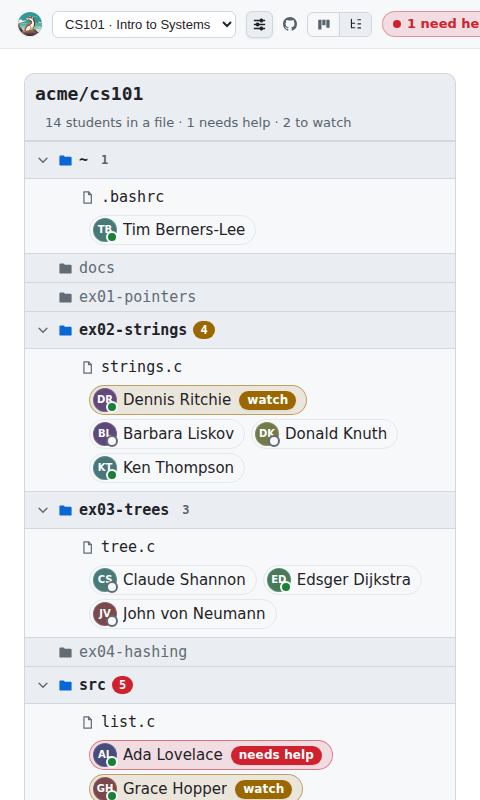
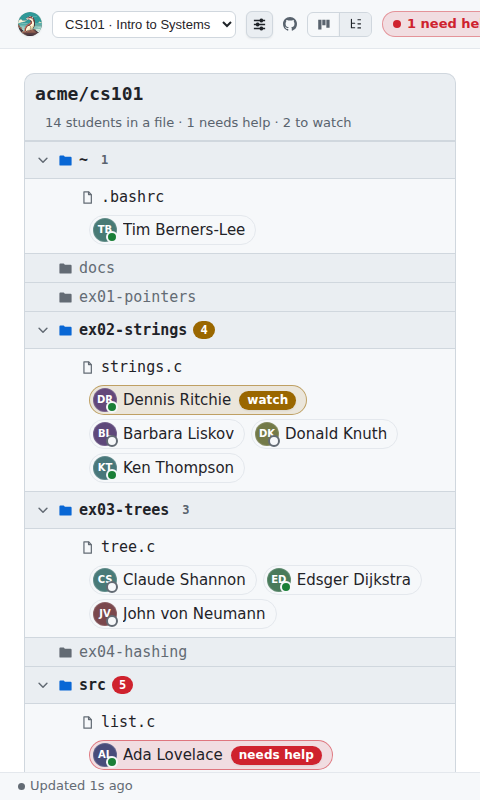
Move the freshness text to a status bar at the bottom
'Updated Ns ago' and the first-visit hint are facts about the page, not
controls, and they crowded the top bar. They now sit in a slim bar under the
board, where the text no longer has to shrink away on narrow windows.

Claude-Session: https://claude.ai/code/session_011qtRC3MwSDrHkoBdiSnsy7

Changed region(s): [[0.0312, 0.9688, 0.6562, 1.0]]

diff --git a/crates/server/static/index.html b/crates/server/static/index.html
@@ -112,7 +112,7 @@
     #more-menu hr { border: 0; border-top: 1px solid var(--border-subtle); margin: 4px 2px; }
     /* On a narrower window the bar gives up words before it gives up controls:
      * the actions keep their icons (and their names, for screen readers), then
-     * the wordmark and repo name go, then the freshness text. */
+     * the wordmark and repo name go. */
     @media (max-width: 1240px) {
       header .lbl {
         position: absolute; width: 1px; height: 1px; margin: -1px; overflow: hidden;
@@ -123,10 +123,6 @@
     }
     @media (max-width: 960px) {
       header h1, .course-repo span { display: none; }
-    }
-    @media (max-width: 800px) {
-      #freshness { font-size: 0; gap: 0; }
-      #freshness .fdot { width: 9px; height: 9px; }
     }
     /* Only the course-settings gear stays beside the switcher. */
     #course-settings { padding: 5px; }
@@ -170,6 +166,13 @@
     }
 
     #content { flex: 1 1 auto; display: flex; min-height: 0; }
+    /* Quiet facts about the page itself — how fresh it is, what to click —
+     * live under the work, not among the controls above it. */
+    #statusbar {
+      flex: 0 0 auto; display: flex; align-items: center; gap: 16px; min-height: 28px;
+      padding: 3px 18px; border-top: 1px solid var(--border-subtle); background: var(--surface);
+    }
+    #statusbar .spacer { margin-left: auto; }
 
     /* ---- Overview board (main pane) ---- */
     #board {
@@ -573,8 +576,6 @@
     </div>
     <span id="alert" aria-live="assertive"></span>
     <span class="spacer"></span>
-    <span id="freshness" class="freshness">Connecting…</span>
-    <span id="hint" class="hint">Click a student to open their terminal</span>
     <a class="nav" href="/analytics" title="Time-on-task analytics" aria-label="Analytics">
       <svg class="ico" viewBox="0 0 16 16" fill="currentColor" aria-hidden="true"><path d="M2 13.5h12v1.3H1V2h1.3v11.5zM5 11V7h1.6v4H5zm3-6h1.6v6H8V5zm3 2.5h1.6V11H11V7.5z"/></svg>
       <span class="lbl">Analytics</span>
@@ -614,6 +615,11 @@
     <div id="divider" role="separator" aria-orientation="vertical" aria-label="Resize terminal panel"></div>
     <div id="dock"></div>
   </div>
+  <footer id="statusbar">
+    <span id="freshness" class="freshness">Connecting…</span>
+    <span class="spacer"></span>
+    <span id="hint" class="hint">Click a student to open their terminal</span>
+  </footer>
   <div id="toasts" role="status" aria-live="polite"></div>
 
   <script>
@@ -1261,14 +1267,12 @@
       if (lastError) {
         el.className = 'freshness failed';
         el.innerHTML = '<span class="fdot"></span>Update failed — retrying';
-        el.title = el.textContent; // the words go when the bar is narrow; the tooltip keeps them
         return;
       }
       if (!lastUpdated) { el.className = 'freshness'; el.textContent = 'Connecting…'; return; }
       const s = Math.round((Date.now() - lastUpdated) / 1000);
       el.className = 'freshness' + (s > 15 ? ' stale' : '');
       el.innerHTML = `<span class="fdot"></span>Updated ${s}s ago`;
-      el.title = el.textContent;
     }
     setInterval(setFreshness, 1000);
 
